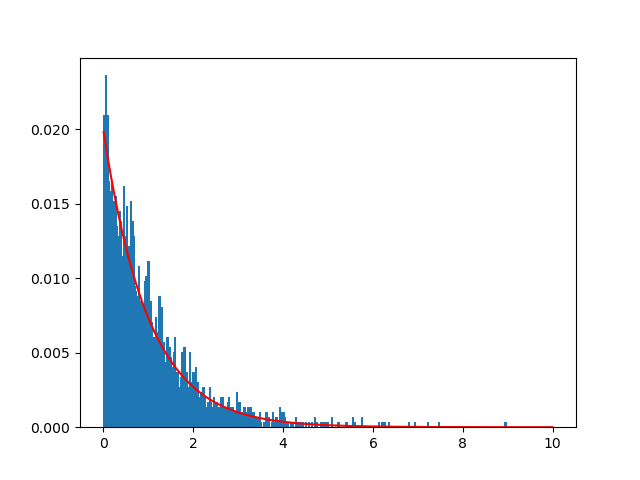
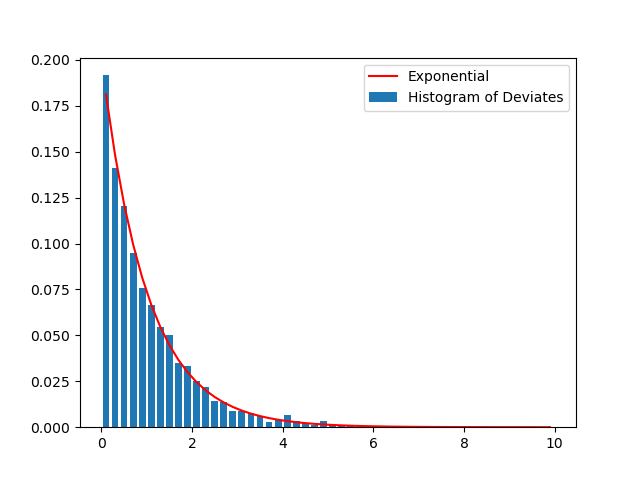
wip

diff --git a/problem_sets/ps7/ps7.py b/problem_sets/ps7/ps7.py
@@ -29,12 +29,10 @@ Z = np_rand_points[:, 2]
 # ax = f2.add_subplot(111, projection='3d')
 # ax.scatter(X, Y, Z, s = 1)
 
-# If time, check to see if you can get the last bit of the question to work.
-
 #-----------------------------------------------------------------------------
 # (2)
 
-n = 100000
+n = 10000
 y = np.pi*(np.random.rand(n)-0.5)
 x = np.tan(y)
 
@@ -44,7 +42,7 @@ x = np.tan(y)
 P = 1.1/(1+x**2)
 Pp = np.random.rand(n)*P
 
-bins=np.linspace(0, 10, 501) # Change number of bins?
+bins=np.linspace(0, 10, 51) 
 cents=0.5*(bins[1:] + bins[:-1])
 
 lor = 1.1/(1 + cents**2)
@@ -66,9 +64,10 @@ hist = hist/np.sum(hist)
 exp = exp/np.sum(exp)
 
 f4 = plt.figure()
-plt.bar(cents, hist, 0.05)
-plt.plot(cents, exp, c = 'r')
-plt.savefig('hist_deviates_100000.png') 
+plt.bar(cents, hist, 0.15, label = 'Histogram of Deviates')
+plt.plot(cents, exp, c = 'r', label = 'Exponential')
+plt.legend()
+plt.savefig('hist_deviates_10000.png') 
 
 # How efficient can I make this? --> n = 10000 appears to be lower limit
 # for deviates to be considered reasonably exponentially distributed. Could
@@ -92,10 +91,6 @@ vmax = max(v)
 limits = [min(v), max(v)]
 print('limits on v are', limits)
 
-# f6 = plt.figure()
-# plt.plot(u, v)
-# plt.plot(u, -v)
-
 n2 = 100000
 u2 = np.random.rand(n2)
 v2 = np.random.rand(n2)*vmax
@@ -103,8 +98,33 @@ x2 = v2/u2
 accept2 = u2 < np.exp(-x2)
 x2_acc = x2[accept2]
 
-hist2, bin_edges2 = np.histogram(x2_acc, 50, range = (0, 3))
+accept2_inds = np.where(accept2 == True)[0]
+acc_percent = 100*len(accept2_inds)/n2
+
+print(f'From {n2} points, {len(accept2_inds)} were kept --> {acc_percent}% kept.')
+
+# This provides a good visualization for what's going on:
+    
+f6 = plt.figure()
+plt.plot(u, v, c = 'r')
+plt.plot(u, -v, c = 'r')
+plt.scatter(u2,v2)
+plt.plot(u,v, c='r')
+plt.scatter(u2[accept2], v2[accept2])
+plt.savefig('uv_bound.png')
+
+hist2, bin_edges2 = np.histogram(x2_acc, 51, range = (0, 3))
 cents2 = 0.5*(bin_edges2[1:] + bin_edges2[:-1])
+hist2 = hist2/np.sum(hist2)
+
+# Maybe we have to multiply cents2 by 2 in the exponential here because
+# we have to consider the 2 regions in u,v space?
+
+exp2 = np.exp(-2*cents2)*np.sum(accept2)*(cents2[2]-cents2[1]) 
+exp2 = exp2/np.sum(exp2)
 
 f7 = plt.figure()
-plt.bar(cents2, hist2, 0.05)
+plt.bar(cents2, hist2, 0.05, label = 'Histogram of Deviates')
+plt.plot(cents2, exp2, c = 'r', label = 'Exponential')
+plt.legend()
+# plt.savefig('ratio_of_uniforms_hist_100000.png')
